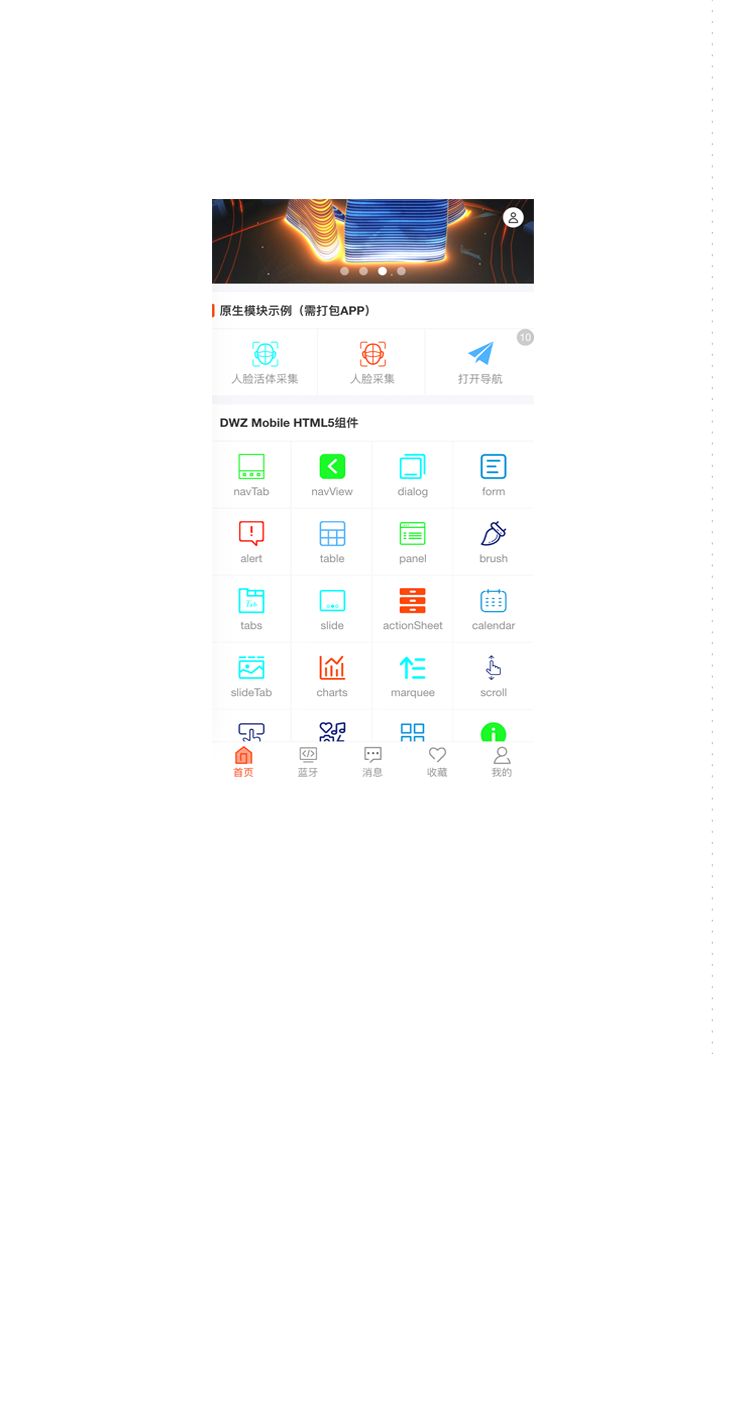
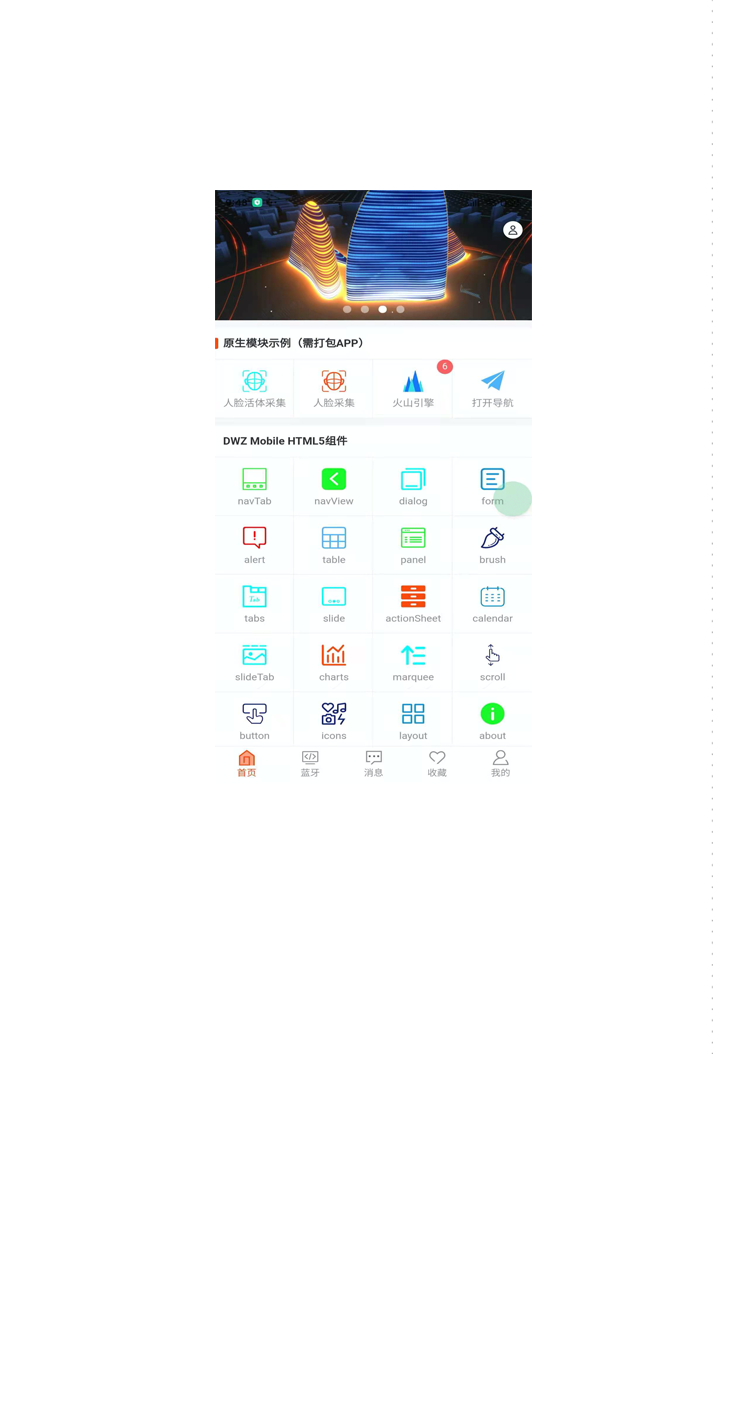
dev

Changed region(s): [[0.276, 0.1228, 0.736, 0.5525]]

diff --git a/widget/js/biz.common.js b/widget/js/biz.common.js
@@ -8,7 +8,7 @@ $.urlInterceptor = function (url) {
 
 	if (!pass) {
 		// 配制无需登录的uri
-		let uris = ['tpl/user/', 'tpl/home.html'];
+		let uris = ['tpl/user/', 'tpl/module/', 'tpl/home.html'];
 
 		// 判断request URI 是否需要登入
 		let requestUri = url.getRequestURI();
@@ -195,45 +195,46 @@ $.extend(biz, {
 	checkUpdate() {
 		if (!window.api) return;
 		const mam = api.require('mam');
-		mam.checkUpdate((ret, err) => {
-			if (ret && ret.status) {
-				const result = ret.result;
-				if (result.update) {
-					const msg = `新版本型号:${result.version};更新提示语:${result.updateTip};发布时间:${result.time}`;
+		mam &&
+			mam.checkUpdate((ret, err) => {
+				if (ret && ret.status) {
+					const result = ret.result;
+					if (result.update) {
+						const msg = `新版本型号:${result.version};更新提示语:${result.updateTip};发布时间:${result.time}`;
 
-					if (result.closed && biz.server.ENV == 'LIVE') {
-						$.alert.confirm(
-							{
-								title: '有新的版本，请下载并安装',
-								msg,
-								buttons: ['确定']
-							},
-							(ret) => {
-								if (ret.buttonIndex == 1) {
-									biz.updateApp(result);
+						if (result.closed && biz.server.ENV == 'LIVE') {
+							$.alert.confirm(
+								{
+									title: '有新的版本，请下载并安装',
+									msg,
+									buttons: ['确定']
+								},
+								(ret) => {
+									if (ret.buttonIndex == 1) {
+										biz.updateApp(result);
+									}
 								}
-							}
-						);
-					} else {
-						$.alert.confirm(
-							{
-								title: '有新的版本，是否下载并安装',
-								msg,
-								buttons: ['确定', '取消'],
-								theme: 'is-default'
-							},
-							(ret) => {
-								if (ret.buttonIndex == 1) {
-									biz.updateApp(result);
+							);
+						} else {
+							$.alert.confirm(
+								{
+									title: '有新的版本，是否下载并安装',
+									msg,
+									buttons: ['确定', '取消'],
+									theme: 'is-default'
+								},
+								(ret) => {
+									if (ret.buttonIndex == 1) {
+										biz.updateApp(result);
+									}
 								}
-							}
-						);
+							);
+						}
 					}
+				} else {
+					$.alert.toast(err.msg);
 				}
-			} else {
-				$.alert.toast(err.msg);
-			}
-		});
+			});
 	},
 
 	/**

diff --git a/widget/tpl/home.html b/widget/tpl/home.html
@@ -46,7 +46,7 @@
 						<a class="item dwz-ctl-hover" target="navView" data-href="tpl/module/dwzBytedanceImageX/index.html?dwz_callback=biz.dwzBytedanceImageX.testConvertImgRender" rel="dwzBytedanceImageX">
 							<div class="item-icon"><img src="image/icon/module/dwzBytedanceImageX.svg"></div>
 							<p class="item-label">火山引擎</p>
-							<span class="badge badge-1">7</span>
+							<span class="badge badge-1">6</span>
 						</a>
 
 						<a class="item dwz-ctl-hover" href="javascript:biz.openMapNav({name: '恒生科技园', lng:120.005807,lat:30.278029})">

diff --git a/widget/script/index.js b/widget/script/index.js
@@ -57,7 +57,7 @@ function loadScripts(options) {
 	var BASE_URL = (options && options.BASE_URL) || './';
 	var op = {
 		ENV: (options && options.ENV) || 'DEV', // DEV, TEST, UAT, LIVE
-		run_env: (options && options.run_env) || 'build', // dev, build
+		run_env: (options && options.run_env) || 'dev', // dev, build
 		iframe: (options && options.iframe) || false // 是否iframe嵌入的页面
 	};
 

diff --git a/widget/js/biz.dwzBytedanceImageX.js b/widget/js/biz.dwzBytedanceImageX.js
@@ -26,9 +26,10 @@ biz.dwzBytedanceImageX = {
 							url: $img.attr('data-src-imagex') // 原图url
 						},
 						(ret) => {
-							// console.log(JSON.stringify(ret));
 							if (ret.status) {
 								img.src = ret.base64str;
+							} else {
+								console.log(JSON.stringify(ret));
 							}
 						}
 					);
